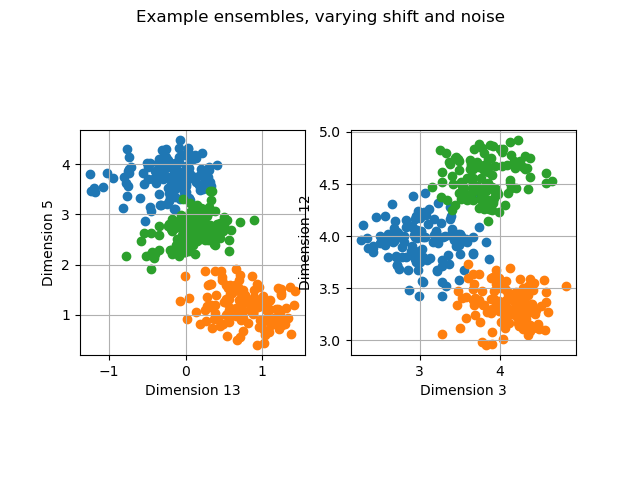
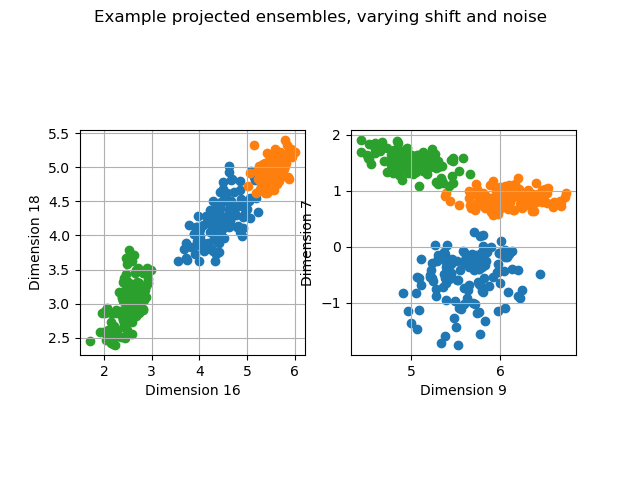
small updates to plotting code

diff --git a/classes/CamelPlotter.py b/classes/CamelPlotter.py
@@ -18,7 +18,7 @@ def show_examples(ae, num_example = 3, std_background = 1, npt_proj = 128):
                                                      hump_weights=[0,15],
                                                      std_background = std_background) )
     
-    fig = plt.figure(2)
+    fig = plt.figure(2, figsize = (9,6.75))
     fig.clf()
     for i in range(num_example):
         ax = fig.add_subplot(num_example,1,i+1)
@@ -26,13 +26,20 @@ def show_examples(ae, num_example = 3, std_background = 1, npt_proj = 128):
         camel_truth, camel_corrupt = data_test[i]
         camel_recon,encoding = ae(camel_corrupt.view(1,1,-1))
 
-        ax.scatter(range(len(camel_corrupt)),camel_corrupt.detach().numpy().flatten(), s=1, c='g')
+        pl1, = ax.plot(camel_truth.detach().numpy().flatten(), ls='--', c='b')
+        pl2  = ax.scatter(range(len(camel_corrupt)),camel_corrupt.detach().numpy().flatten(), 
+                         s=15, c='g', marker='x')
         
-        ax.plot(camel_truth.detach().numpy().flatten(), ls='--', c='b')
-        ax.plot(camel_recon.detach().numpy().flatten(), c = 'r')
-    
+        pl3, = ax.plot(camel_recon.detach().numpy().flatten(), c = 'r')        
+        ax.set_title(f"Example {i+1:d}")
+        ax.set_xlim(0,255)
+        ax.grid()
+        
+        if not i: ax.legend([pl1, pl2, pl3], ["Pure signal, $y(t)$", "Noisy shifted signal, $y'(t)\equiv y(t+\Delta t)+\epsilon(t)$", "$F^{-1}(F(y'(t)))$"], fontsize=9)
+        
     fig.suptitle(f'Example reconstructions, background={std_background:.1f}')    
     fig.savefig(f'plots/example_recons_noise={std_background:.0f}.png')
+    fig.tight_layout()
     
     data_proj = cd.CamelDataset( *cd.generate_camels(num_camel=3,
                                                     locations_per_camel=npt_proj) )
@@ -44,7 +51,7 @@ def show_examples(ae, num_example = 3, std_background = 1, npt_proj = 128):
         
     dims = np.random.choice(encodings.shape[1], 4, replace=False)
     
-    fig = plt.figure(3)
+    fig = plt.figure(3, figsize = (6.4, 4.8))
     fig.clf()
     ax1 = fig.add_subplot(1,2,1)
     ax2 = fig.add_subplot(1,2,2)
@@ -59,7 +66,7 @@ def show_examples(ae, num_example = 3, std_background = 1, npt_proj = 128):
     ax1.set_ylabel(f'Dimension {dims[1]:.0f}')
     ax2.set_xlabel(f'Dimension {dims[2]:.0f}')
     ax2.set_ylabel(f'Dimension {dims[3]:.0f}')
-    fig.suptitle("Example ensembles, varying shift and noise")
+    fig.suptitle("Example projected ensembles, varying shift and noise")
     
     r = np.diff( ax1.get_xlim() )/np.diff(ax1.get_ylim() )
     ax1.set_aspect(r)

diff --git a/driver.py b/driver.py
@@ -21,4 +21,4 @@ ae, data_train, loss_curves = ct.train( num_epoch = 0,
 
 if state_file_out is not None: tc.save(ae.state_dict(), state_file_out)
 
-cpl.show_examples(ae, std_background = 4)
+cpl.show_examples(ae, std_background = 5)
